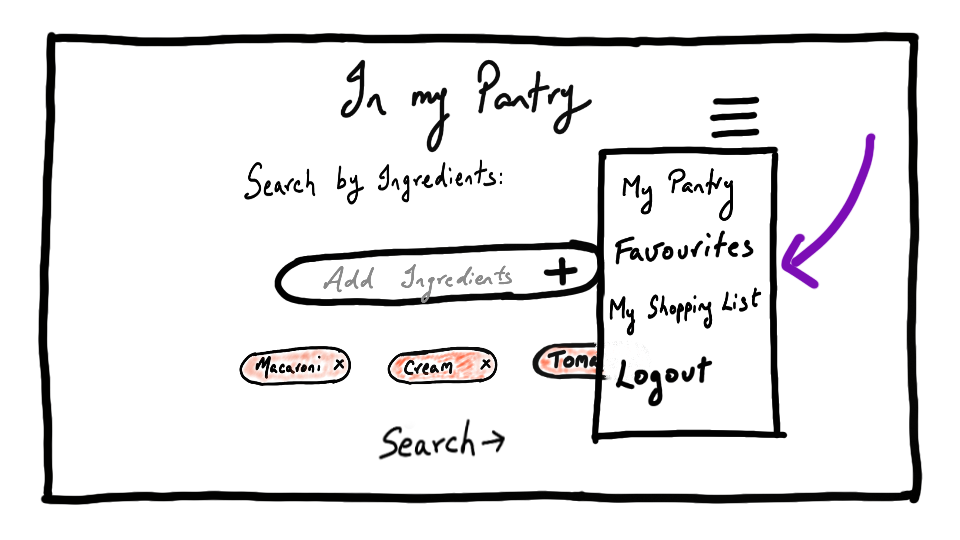
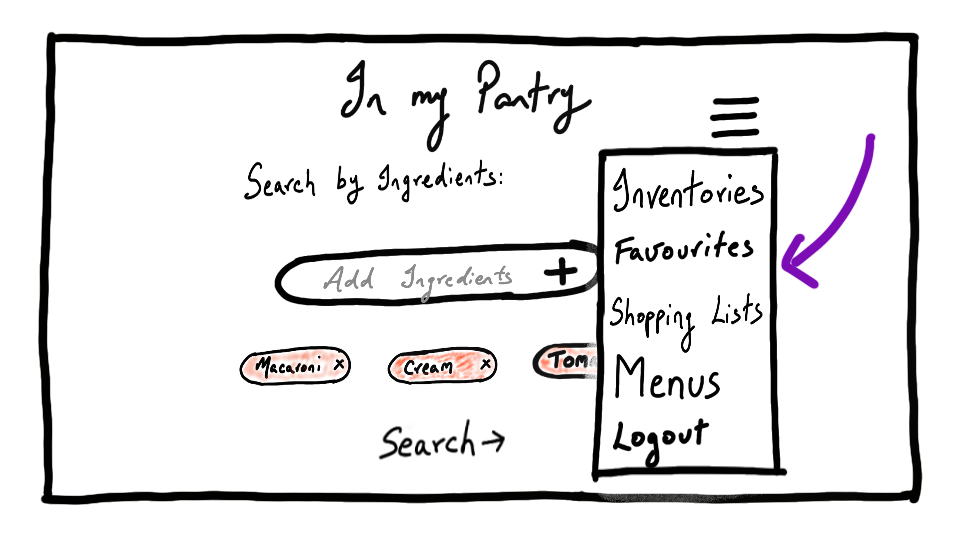
Whiteboarding auth, menus, inventories and made the diagrams better

diff --git a/public/content/page-content/design/whiteboarding.md b/public/content/page-content/design/whiteboarding.md
@@ -1,7 +1,7 @@
 # Whiteboarding Flows
 
 ## Why whiteboard flows?
-Before diving head first into coding up the application, it helps to have a blueprint for your application. Having a Morth Star helps thinking through the application from the front to the back and weed out any potential early pitfalls. 
+Before diving head first into coding up the application, it helps to have a blueprint for your application. Having a North Star helps thinking through the application from the front to the back and weed out any potential early pitfalls. 
 
 When working alone it can often be very tempting to start coding up the application. The thrill of seeing a new idea come to life in the form of a demo or even a working model beats boring paper work any day. But there are many reasons why it makes sense to plan out the project before starting.
 
@@ -22,10 +22,10 @@ To recap, the crux of our idea - which we christened, 'In my Pantry,' is to allo
 To start whiteboarding, it as simple as drawing out that main flow. To search for a recipe, user would have a search bar and a screen to view the search results. 
 
 ![Simple Search Bar](/content/page-content/design/whiteboarding-imgs/search-bar.png "Simple Search Bar")
-*Fig 1: Simple Search Bar*
+*Fig. 1: Simple Search Bar*
 
 ![Simplest Search Results Page](/content/page-content/design/whiteboarding-imgs/simplest-search-results.png "A Very Simple Search Results Page")
-*Fig 2: A Very Simple Search Results Page*
+*Fig. 2: A Very Simple Search Results Page*
 
 It helps to think of the flows in terms of screens and action elements on the screen. Other developers may like working with more abstract representations such as boxes and flow diagrams. While the more experienced may find such flow diagrams more concise and even allow them to capture more details in a more generic way without having to draw out screens, others may find drawing out screens provide a more realistic view. This could be a matter of taste, but we go with drawing out the screens in as much detail as possible, since, as we said, it is easier for people new to designing to follow.
 
@@ -40,7 +40,7 @@ To alleviate this, can the user be shown some information about the search resul
 We draw some examples of this on the screen.
 
 ![Simple Search Results Page](/content/page-content/design/whiteboarding-imgs/search-results.png "Simple Search Results Page")
-*Fig 3: Simple Search Results Page*
+*Fig. 3: Simple Search Results Page*
 
 Readers may notice that we add the logo to this screen and a search bar too. This is an example of continuity and familiarity. The familiarity is driven by the fact that some of us may be used to these screens in our day to day activities - a reason why so many applications are designed to look similar when performing a similar action. Adding the logo helps place the user in the application and the search bar helps the user know what they searched for or even start a new search from the current screen. This kind of detailing may or may not be required and can be driven by our experiences but this goes to show how when designing on a white board there are not hard and fast rules for how deep to go and that depth and detail can be chosen based on the designer's experince and comfort and that that of their team too.
 
@@ -64,7 +64,7 @@ These questions can help us get to a version of the design where most of the fun
 The original idea was that the search would be performed on a list of ingredients. Right now the search is performed on only a single string. We go back to the search page and try to improve upon it. 
 
 ![Search Page with Ingredients Tags](content/page-content/design/whiteboarding-imgs/add-tags.png "Search Page with Ingredients Tags")
-*Fig 4: Search Page with Ingredients Tags*
+*Fig. 4: Search Page with Ingredients Tags*
 
 We add a method for users to provide a list of ingredients. The idea with this input element is that the user can type out an element into the search bar and press enter or the 'add' button, and the element will be listed below. Once the user clicks on search the search would be performed on all of these tags.
 
@@ -72,16 +72,18 @@ We add a method for users to provide a list of ingredients. The idea with this i
 We move on to the search results page. We add more functionality here. More specifically, the ability to perform filter and sort. We spoke about filter and sort at length when we discussed [user flows](/user-flows). We depict the filter as list of filter objects in the left side menu. Each filter object has a filter name and list of selectable items, which depict the filter values.
 
 ![Search Filters](/content/page-content/design/whiteboarding-imgs/filters.png "Search Filters")
-*Fig 5: Search Filters*
+*Fig. 5: Search Filters*
 
 ### Sort
 Sort is depicted as a button on the top-right.
+
 ![Sort](/content/page-content/design/whiteboarding-imgs/sort.png "Sort")
-*Fig 6: Sort*
+*Fig. 6: Sort*
 
 Clicking on the sort button opens a menu with the list of sort attributes.
+
 ![Sort Menu](/content/page-content/design/whiteboarding-imgs/sort-menu.png "Sort Menu")
-*Fig 7: Sort Menu*
+*Fig. 7: Sort Menu*
 
 Here we depict the sort as a list of attributes but we can also append the order to the attribute such as 'Difficulty: Least to Most,' or 'Difficulty: Most to Least.'
 
@@ -94,69 +96,131 @@ Another element added to the page is that of *pagination*. Pagination means spli
 * An ability to move to a particular page.
 
 ![Pagination](/content/page-content/design/whiteboarding-imgs/pagination.png "Pagination")
-*Fig 8: Pagination*
+*Fig. 8: Pagination*
 
 ### Recipe Page
-![Recipe Page](/content/page-content/design/whiteboarding-imgs/favourite-star.png "A Recipe Page")
-*Fig 9: Recipe Page*
+![Recipe Page](/content/page-content/design/whiteboarding-imgs/recipe.png "A Recipe Page")
+*Fig. 9: Recipe Page*
 
 The recipe is the final outcome of the search. Clicking on a recipe in the list of search results leads us to this page. The design of the page will be generic with the data of each recipe used to populate the exact parts of the page. The page has a heading, the ingredients, the recipe steps among other parts of the recipe. We haven't shown it in our diagram, but the recipe page can also include images of the final dish.
 
 ![Add to favourites star](/content/page-content/design/whiteboarding-imgs/favourite-star.png "Add to favourites star")
-*Fig 10: Add to favourites star*
+*Fig. 10: Add to favourites star*
+
 We add another element to the page - an ability for users to add recipes to their list of favourites, so that they don't have to search for them again in the future.
 
 ![Back button](/content/page-content/design/whiteboarding-imgs/back-button.png "Back button")
-*Fig 11: Back Button*
+*Fig. 11: Back Button*
+
 This is an example of thinking through the reverse flows. If the user is browsing through recipes, they may want to click on a few recipes to look at the details before moving to the next recipe. In this flow the user will want to go back to the search results page once already on a recipe, so that they can pick and navigate to another recipe in the list. The user can rely on the browser's back button, but implementing a back button in the application can give the feeling of completeness and isolation, that is all the actions that can be performed are performed in a consistent way and can be performed by using only buttons available inside the application's visual space.
 
 ### Hamburger Menu
 ![Introducing Hamburger Menu](/content/page-content/design/whiteboarding-imgs/hamburger.png "Hamburger Menu Button")
-*Fig 12: Hamburger Menu*
+*Fig. 12: Hamburger Menu*
+
 The other flows we described in the [our product page](/our-product), were that where users can create a list of ingredients that reflect the ingredients in their real-world inventory and they can search for recipes using that list. This inventory being a more permanent list than the transient one they can create above with the search tags. We need a way to navigate to this feature and any other possible features we may add. Here we introduce the 'menu.' One implementation of which is the hamburger menu. Menus can be displayed as a list of navigation links each next to the other in horizontal or a vertical fashion. They can also be dynamically displayed or hidden on a click of a button to save on some real estate. A form of such a menu is the hamburger menu, so named because the icon used to depict this menu looks like an abstract hamburger, even though it supposed to be an abstract depiction of the menu itself.
 
 ![Hamburger drop down](/content/page-content/design/whiteboarding-imgs/drop-down-menu.png "Hamburger Drop Down")
-*Fig 13: Hamburger Drop Down*
+*Fig. 13: Hamburger Drop Down*
 
 On clicking the hamburger menu button, the drop down shows the list of pages that the user can possibly navigate too. The location of the menu, and even the navigation links listed, can change from page to page and provides a convenient way for the user to move around in the application.
 ### Authorization
 
+Some pages of some applications cannot be reached without the user first logging in. These would especially be in cases where the page is displaying data that is specific to that user. In the case of 'In my Pantry,' the user can perform a search using keywords without signing in, but to store their inventory data in a database and to retrieve that data only for them in a way that other users do not have access to that data requires a user to signin or login.
+
+We design our login in to be a username and password challenge that the user has to fill in. There are other methods such as using a one-time-password sent to a mobile phone or email account, that can be used to login.
+
+To reach the login challenge page we add a signin option in the hamburger menu if the user is not already signed in. If the user navigates to a page that requires a login, such as the page that lists the user's favourite recipes, inventories or menus, and the user has not signed in yet, the user can be redirected to the login page.
 
 ![Signin](/content/page-content/design/whiteboarding-imgs/signin.png "Signin")
-*Fig 14: Sign-in*
+*Fig. 14: Sign-in*
+
+To be able to signin the user should have an account of that is registered with corresponding  username and password. If the user is not registered, then many self-serving applications provide the option for the user to signup themselves, that is, provide a username, password and additionally some information that allows the application to personally identify them such as a name or other such information. Other applications dealing in more sensitive data may require another user who is already known the application to register a new user with the application.
+
+Here the sign-in page has a link for the user to sign-up instead.
 
 ![Signin New User](/content/page-content/design/whiteboarding-imgs/signin-new-user.png "Signin New User")
-*Fig 15: Link to Sign-in new user*
+*Fig. 15: Link to Sign-in new user*
 
-![Signin Forgot Password](/content/page-content/design/whiteboarding-imgs/forgot-password.png "Signin Forgot Password")
-*Fig 16: Forgot Password page*
+The sign-up page has the options for the user to provide a username, a password or other personally identifiable information.
+
+Here the sign-in page has a link for the user to sign-up instead.
+
+![Sign-up for a New User](/content/page-content/design/whiteboarding-imgs/signup.png "Signup New User")
+*Fig. 16: Sign-up for a new user*
+
+The sign-up page also has the option for the user to go back and sign-in instead, in case they actually realize they already have a username registered here. This case is very common when a user tries sign-up but the application is able to inform them that the username already exists, and the user feels that there is a high chance that it was them who had registered on this application with that username.
+
+If a user is not able to remember their login credentials, they may be given the option to reset it 
 
 ![Forgot Password](/content/page-content/design/whiteboarding-imgs/signin-forgot-password.png "Forgot Password")
-*Fig 17: Link to Forgot Password on Sign-in page*
+*Fig. 17: Link to Forgot Password on Sign-in page*
+
+![Signin Forgot Password](/content/page-content/design/whiteboarding-imgs/forgot-password.png "Signin Forgot Password")
+*Fig. 18: Forgot Password page*
+
+The back-link from the forgot-password page to the sign-in page is another example creating back links between pages to maintain consistency and inter-connectedness between pages for the user's easy movement.
 
 ![Forgot Password Back Button](/content/page-content/design/whiteboarding-imgs/forgot-password-back.png "Forgot Password Back Button")
-*Fig 18: Link go back on Forgot Password page*
+*Fig. 19: Link go back on Forgot Password page*
 
 ### Favourite Recipes
+**Fig. 10** depicts a star that toggles whether the given recipe is added to the list of 'favourite' recipes for the user. We create a screen that allows the user to see the list of recipes that they have previously marked as 'favourite.' We can navigate to this list by clicking on the navigation button in the hamburger menu.
+
 ![Favourite Recipes](/content/page-content/design/whiteboarding-imgs/favourite.png "Favourite Recipes")
-*Fig 19: List of Favourite Recipes*
-
-### Inventories
-![Inventory List](/content/page-content/design/whiteboarding-imgs/inventory-list.png "Inventory List")
-*Fig 20: List of Inventories*
-
-![Add Inventory Button](/content/page-content/design/whiteboarding-imgs/inventory-list-add.png "Add Inventory Button")
-*Fig 21: Add Inventory*
+*Fig. 20: List of Favourite Recipes*
 
 ### Menus
+A menu is a collection of recipes for dishes that the user wants to create at a given time. Why have menus? This arises from the question, 'when the user searches for a dish given a set of ingredients in an inventory, what if the user wants to search for another recipe for the same meal?' The search for the second recipe should discount the ingredients that would pontentially be used when creating the first dish. The menu allows users to add recipes together such that they are guaranteed that they have the inventory has all the ingredients and amounts for all the recipes currently added to the menu.
+
+**Fig. 21** is a list of menus that the user can maintain.
+
 ![Menus](/content/page-content/design/whiteboarding-imgs/menus.png "Menus")
-*Fig 22: Menus*
+*Fig. 21: Menus*
+
+Clicking on a particular menu in the menu list shows the particulars of a menu. This includes the name of the menu, the list of recipes added to the menu and a cummulative list of ingredients created by summing over the ingredients required for individual recipes in the menu. The user can also choose to delete a recipe from the menu.
+Clicking on a particular recipe in the menu will lead the user to the recipe page such as the one in **Fig. 9**.
 
 ![Menu](/content/page-content/design/whiteboarding-imgs/menu.png "Menu")
-*Fig 23: Menu*
+*Fig. 22: Menu*
+
+### Inventories
+An inventory stores a list of ingredients available with the user. Instead of constricting the user to just one inventory, we choose to allow the user to create many 'inventories' or lists of ingredients. The user may want to track an inventory at multiple locations invidually, say their grandmother lives next door and they would want to track her inventory too, for her. When designing we may not need a compelling reason to allow the user to do more, but we'll need a compelling reason to restrict the user. But this comes with a tradeoff if the flow doesn't seem natural enough then it can confuse the users.
+
+The inventory list is exactly what the name says, it is a list of inventories that are depicted as a table. The elements in the row may show information about the individual inventories, it can also have action buttons to call the user to perform further action on the element.
+
+![Inventory List](/content/page-content/design/whiteboarding-imgs/inventory-list.png "Inventory List")
+*Fig. 24: List of Inventories*
+
+![Inventory List Sort](/content/page-content/design/whiteboarding-imgs/sort-inventory-list.png "Inventory List Sort")
+*Fig. 25: Sorting the List of Inventories*
+
+The 'add an inventory' button above the table creates a new inventory object and adds a pointer to it in the table. 
+
+![Add Inventory Button](/content/page-content/design/whiteboarding-imgs/inventory-list-add.png "Add Inventory Button")
+*Fig. 26: Add Inventory*
+
+But before it can add the inventory object we show display a large box above the content, called a modal, that captures some basic identifying information about the object. This flow forces the user to provide, say, a name for the inventory, if they don't then inventory is not created.
+
+![New Inventory Modal](/content/page-content/design/whiteboarding-imgs/new-inventory-modal.png "New Inventory Modal")
+*Fig. 27: New Inventory Modal*
+
+An inventory is a list of available ingredients. A user can add new ingredients to the inventory by clicking on the 'add ingredients' button, depicted by the 'plus' symbol above the table.
+
+![Inventory](/content/page-content/design/whiteboarding-imgs/inventory.png "Inventory")
+*Fig. 28: Inventory*
+
+The user can launch a search from the inventory page, as per the original idea. However, a constraint added on the search was that it should look for recipes such that there are enough ingredients for all the items in the menu together. To do this, the menu would need to be linked to the search that is about to be launched. To link the menu, again a modal is shown that allows the user to choose the menu they want to link to.
+
+![Choose Menu Modal](/content/page-content/design/whiteboarding-imgs/choose-menu-modal.png "Choose Menu Modal")
+*Fig. 29: Choose Menu Modal*
+
+An alternative idea would be to link the inventory permanently to a menu, and not have a modal everytime we launch a search. In other words the menu linked becomes an attribute of the inventory. This could have the same effect, but this is a good example of how reflecting the real-world relationships when depicting these virtual relationships can help the user understand the system faster and more intuitively. In the real-world a menu is not an attribute of an inventory, one could have potentially different menus that are created from the same inventory, for example, given bread and eggs, a user could decide to have two alternative menus, one that has an omelette sandwich, and the other that has scrambled eggs on toast. Linking a menu as an attribute of an inventory removes the transient - short-lived - nature of the relationship and between a menu and an inventory and makes having a world where multiple menus are linked to an inventory as attributes is hard to understand for user.
 
 ## Flow Diagram
 ![Flow Diagram](/content/page-content/design/whiteboarding-imgs/flow-diagram.png "Flow Diagram")
-*Fig 24: Flow Diagram*
+*Fig. 30: Flow Diagram*
 
 ## Negative Flows
+
+## Empty States
